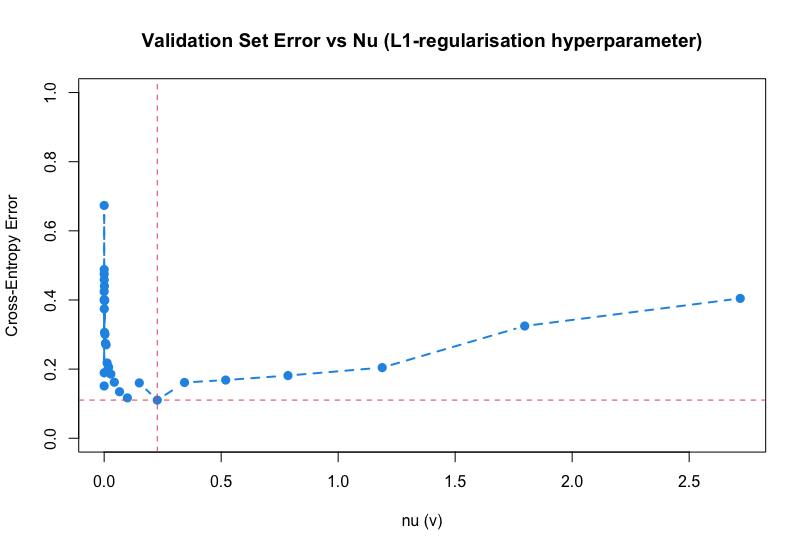
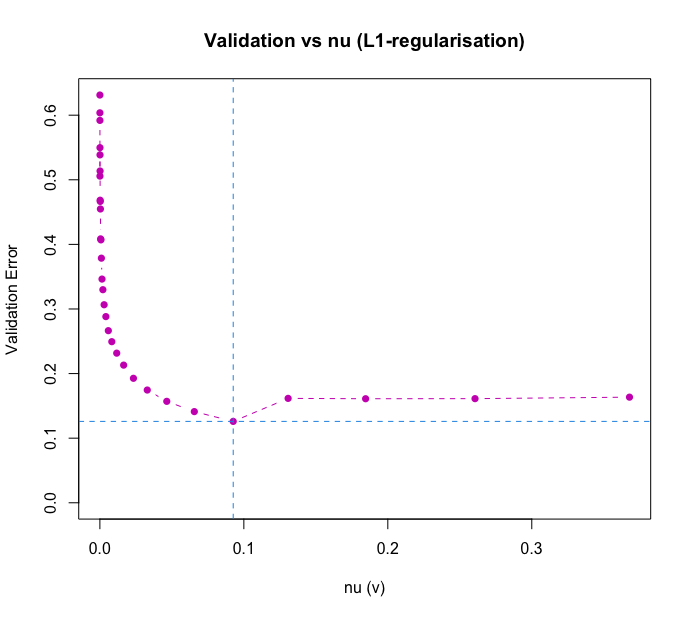
first draft final submission

diff --git a/Write Up/WLTLAU003_Analytics_A1.tex b/Write Up/WLTLAU003_Analytics_A1.tex
@@ -1,5 +1,6 @@
 \documentclass[12pt]{article}
 \usepackage{amsmath}
+\usepackage{subcaption}
 \usepackage[utf8]{inputenc}
 \usepackage{wrapfig}
 \usepackage{float}
@@ -8,7 +9,7 @@
 \usepackage[breaklinks]{hyperref}
 \hypersetup{colorlinks=true, linkcolor=Black, citecolor=Black, filecolor=Blue,
     urlcolor=Blue, unicode=true}
-
+\usepackage[margin=1.2in]{geometry} % Adjust border
 
 \renewcommand{\thesubsubsection}{(\alph{subsubsection})}
 
@@ -43,24 +44,44 @@ A potential numerical pitfall in evaluating the cross-entropy error function ari
 
 \subsubsection{}
 
-Plotting the cross-entropy error obtained on the validation data for varying values of $\nu$ yields:
+Plotting the cross-entropy error obtained on the validation data for varying values of $\nu$ yields the following curve, where I found the $\nu$ value of $0.09261443$ corresponds to the minimum error of $0.1259723$:
 
 \begin{figure*}[!ht]
-\center
-\includegraphics[width=\textwidth,height=0.5\textheight]{question_c_plot.png}
+\centering
+\includegraphics[width=0.8\textwidth]{question_c_plot.png}
 \end{figure*}
 
-Where we find the $\nu$ value of 0.2270106 corresponds to the minimum error (0.1104243).
-
+\newpage
 \subsubsection{}
-If we add the results from the neural network with the reLU activation function we obtain:
+Now I include use a new ANN which uses Rectified Linear Units (ReLU) as the hidden layer activation function. This is superimposed over the previous curve which showed an ANN using Tanh activation functions. I found the $\nu$ value of $0.09261443$ corresponds to the minimum error of $0.1207693$:
 
 \begin{figure*}[!ht]
-\center
-\includegraphics[width=\textwidth,height=0.5\textheight]{question_d_plot.png}
+\centering
+\includegraphics[width=0.8\textwidth]{question_d_plot.png}
 \end{figure*}
 
+\newpage
+
 \subsubsection{}
+Here I trained a neural network with tanh activation in the hidden layer on the complete data set, both with and without L1 regularization. Comparing the magnitude of the parameters between these two models provides insights into the model's complexity. L1 regularization introduces more 'sparsity', essentially reducing the effective number of parameters. In this case specifically, with L1 regularization, many of the model's parameters shrank to near-zero or zero and the largest parameter magnitudes were also reduced. The fact that the regularization promotes such strong sparsity indicates that the original model, without regularization, might have been overfitting the data, capturing excessive variance instead of the true underlying patterns. In simpler terms, the original model had high variance, which might have compromised its generalization capability on unseen data. The reduced number of effective parameters and reduced magnitudes show that the model can better perform on data outside of the training set.
+
+ 
+\begin{figure*}[!ht]
+\centering
+\includegraphics[width=0.5\textwidth]{question_e_plot_B.png}
+\includegraphics[width=0.5\textwidth]{question_e_plot_A.png}
+\end{figure*}
+
+
+
 \subsubsection{}
+\begin{figure*}[!ht]
+\centering
+\includegraphics[width=0.7\textwidth]{question_f_plot_A.png}
+\includegraphics[width=0.7\textwidth]{question_f_plot_B.png}
+\end{figure*}
+
+
+
 
 \end{document}
